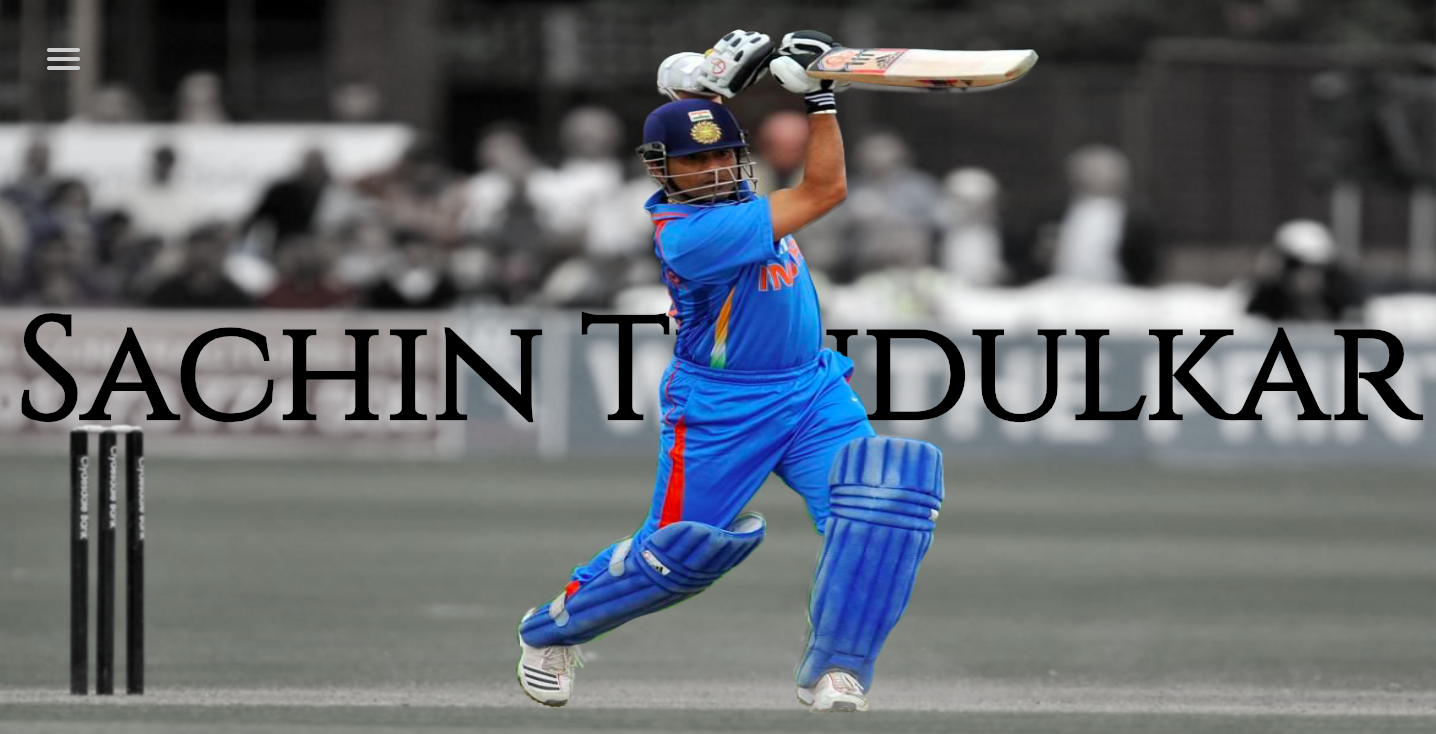
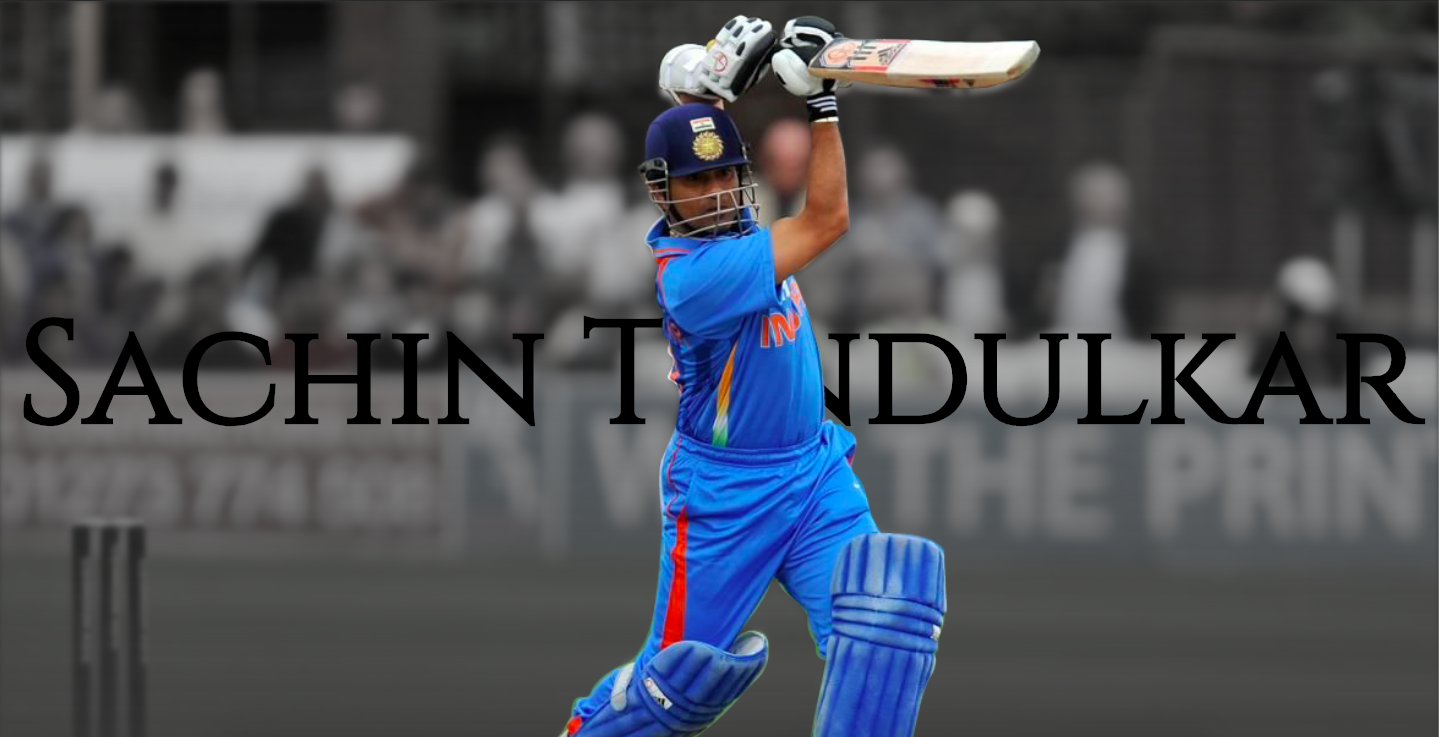
Last nail in the coffin

diff --git a/src/views/HisEra.vue b/src/views/HisEra.vue
@@ -90,28 +90,15 @@
           <pie-chart :chartdata="data.sachinVsRickyTestCaptaincy" />
         </div>
       </div>
-
-      <!-- <div class="era_panel_chart era_panel_large">
-        <div class="era_subject">
-          <div class="era_subject_title">The Trophy Winner</div>
-          <div class="era_subject_content">
-            Every batsmen has a major role in letting his team to win titles and
-            trophies. A player's performane in torunaments knockout phases tells
-            us <br />
-            <span class="highlighted_red">how well they handle pressure.</span>
-            Let's take a look at Sachin Vs Virat stats in
-            <span class="highlighted_red">Tournament Knockouts</span>
-          </div>
-        </div>
-        <div class="era_chart">
-          <line-chart :chartdata="data.sachinVsViratRadar" />
-        </div>
-      </div> -->
     </div>
     <div class="era_head">
       <router-link to="/that"><i class="fas fa-angle-left"></i></router-link>
       <h1 class="era_title">His Era</h1>
-      <router-link to="/this"><i class="fas fa-angle-right"></i></router-link>
+      <router-link to="/this"
+        ><i class="fas fa-angle-right bump tooltip"
+          ><span class="tooltiptext">Change Era</span></i
+        ></router-link
+      >
     </div>
   </div>
 </template>

diff --git a/src/components/FrontPage.vue b/src/components/FrontPage.vue
@@ -64,6 +64,8 @@
         long period of time.
       </p>
     </div>
+    <p class="subtitle">The End</p>
+    <img src="@/assets/god.jpg" alt="" class="footer_image" />
   </div>
 </template>
 
@@ -88,6 +90,20 @@ export default {
 </script>
 
 <style>
+.footer_image {
+  width: 100%;
+  height: 500px;
+  margin: 0;
+  filter: grayscale(30%);
+  -webkit-mask-image: -webkit-gradient(
+    linear,
+    left bottom,
+    left top,
+    from(rgba(0, 0, 0, 0.75)),
+    to(rgba(0, 0, 0, 0))
+  );
+  mask-image: linear-gradient(to top, rgba(0, 0, 0, 0.75), rgba(0, 0, 0, 0));
+}
 .front_page {
   width: 90%;
   margin: 0 auto 5% auto;

diff --git a/src/views/Home.vue b/src/views/Home.vue
@@ -103,11 +103,13 @@ img {
   font-family: "Cinzel", serif;
   z-index: -2;
   bottom: 32vh;
-  animation: appear 1s linear;
+  animation: appear 5s linear;
 }
 .subtitle {
   color: #f34c0a;
-  bottom: 0vh;
+  font-family: "Cinzel", serif;
+  line-height: 40%;
+  font-size: 4vw;
 }
 .home {
   width: 100vw;
@@ -125,7 +127,7 @@ img {
     to(rgba(0, 0, 0, 0))
   );
   mask-image: linear-gradient(to bottom, rgba(0, 0, 0, 1), rgba(0, 0, 0, 0));
-  animation: blur 2s linear;
+  animation: blur 4s linear;
   filter: blur(3px) grayscale(90%);
 }
 .front {

diff --git a/README.md b/README.md
@@ -44,16 +44,21 @@ So this doc serves as a todo board,brainstorming area and factual bulletin.
 - http://www.howstat.com/cricket/Statistics/Players/PlayerOverviewSummary.asp?PlayerID=1735
 - https://www.news18.com/cricketnext/news/sachin-tendulkar-or-virat-kohli-who-is-the-superior-odi-batsman-1920179.html
 - https://www.news18.com/cricketnext/news/stats-reveal-sachin-is-virat-in-odi-knockout-matches-1224080.html
+- http://sachinandcritics.com/
 
 ## Key features:-
 
 - Made a unique anmation to lead user through the site like a story book not like conventional nav bar.
 - Wrote the whole css by myself.
+- Navigation is unique. Those arrows are basically Vue-router-links.
+
+  **Compare Sachin Across all eras**.
+  <img src="./readme_assets/navigation.png"></img>
 
 ### Code base Specials:-
 
 - Made chartComponents into a component module by introducing a index.js. So all the charts can be destructured from the chartComponents module within the same export LOC.
-- The hero section comprises of two different mages processed and animated through CSS only.
+- The hero section comprises of two different images processed and animated through CSS only.
 
 ## Project setup
 
